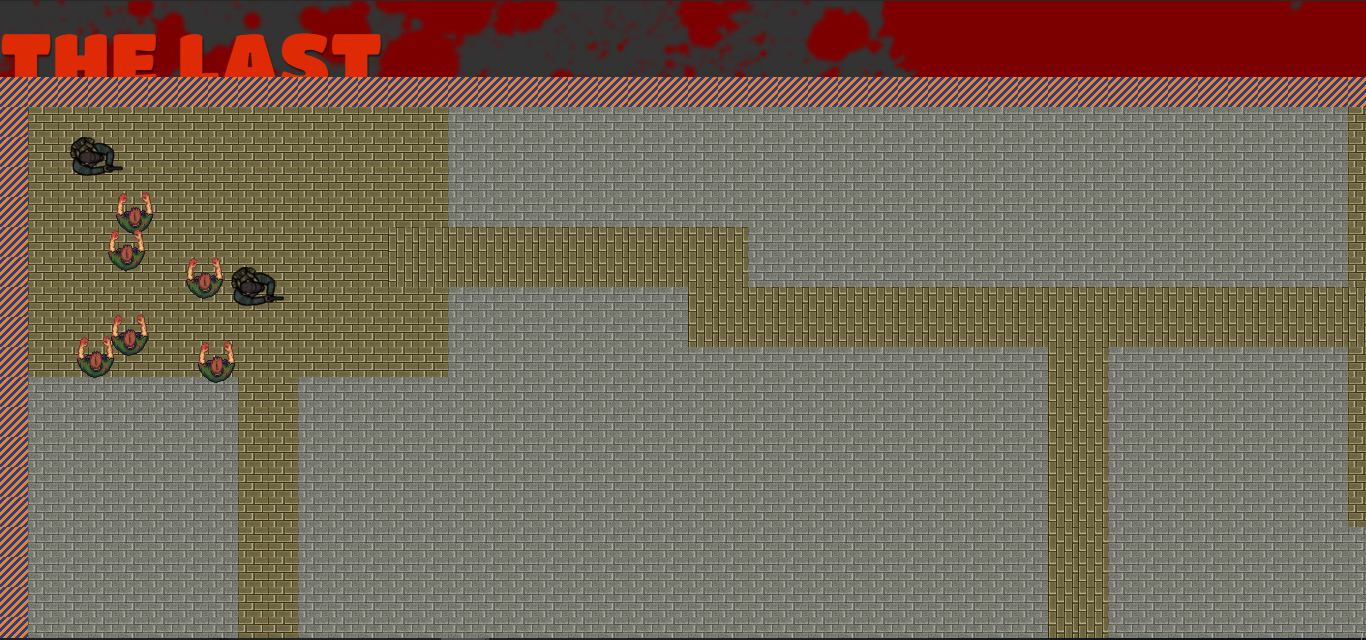
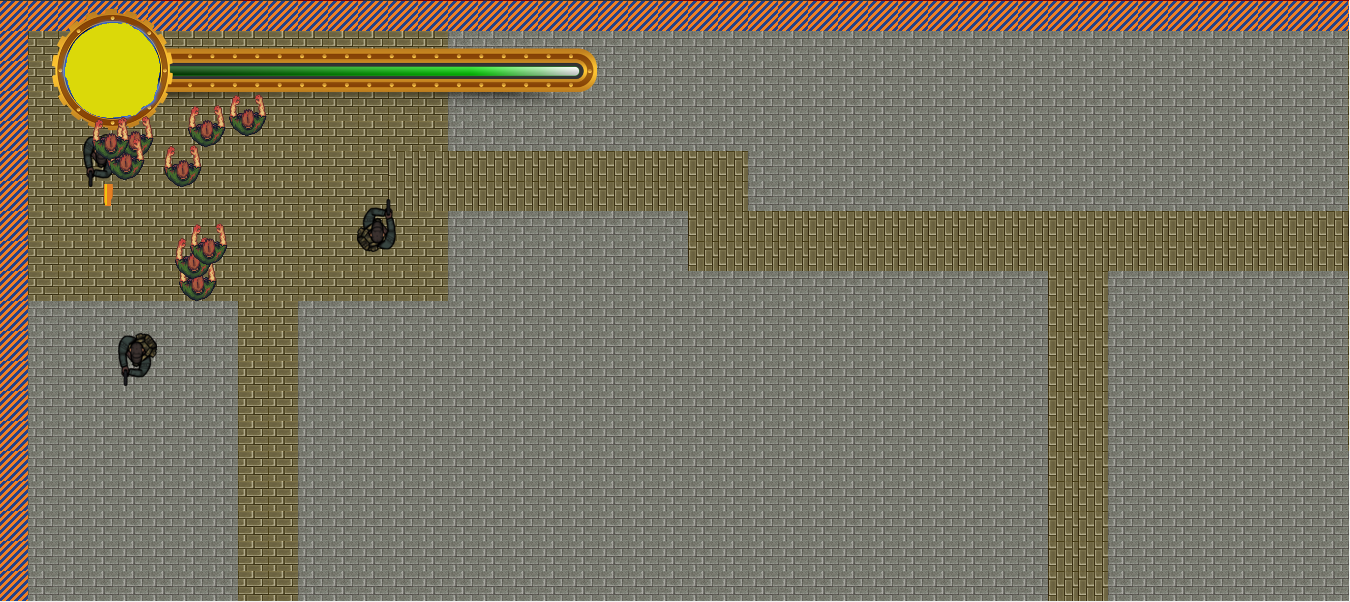
readme

diff --git a/README.md b/README.md
@@ -7,7 +7,7 @@
  - Daniel Felipe Moreno D'Aleman
  - David Felipe Vaca Santana
 
-- **Enlace Heroku:**
+**Enlace Heroku:**
 
 #### **Descripción del proyecto:**
 > *Este proyecto tiene como enfoque brindar al usuario entretenimiento, donde el usuario se sienta cómodo en un juego que le puede brindar experiencia multijugador e individual. THE LAST esta basado en el juego Boxhead, se generó un nuevo tipo de estrategia el cual le permite al usuario competir con sus amigos o con cualquier personas de forma online generando un ambiente competitivo.*
@@ -25,7 +25,9 @@
  que se encuentre en la partida.
 ![](Juego.PNG)
 
->Al estar dentro de la partida, se podrá mover al jugador con las flechas del teclado en cualquier dirección
+>Al estar dentro de la partida, se podrá mover al jugador con las flechas del teclado en cualquier dirección,
+ Se puede disparar con la tecla espacio. Ademas se puede ver la barra de vida junto con el color que se escogio
+ inicialmente, 
 
 
 - **Enlace Trello:** https://trello.com/b/xlSrf97p/arsw-2018-1-thelast-historias
